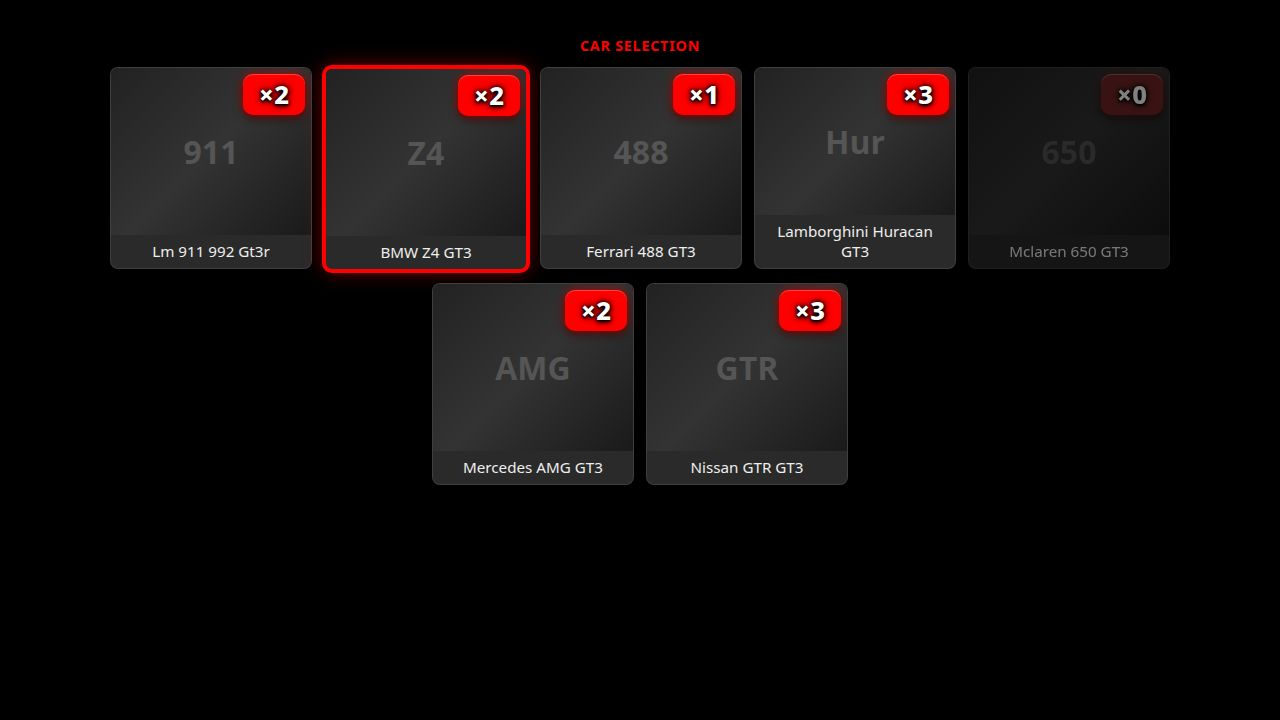
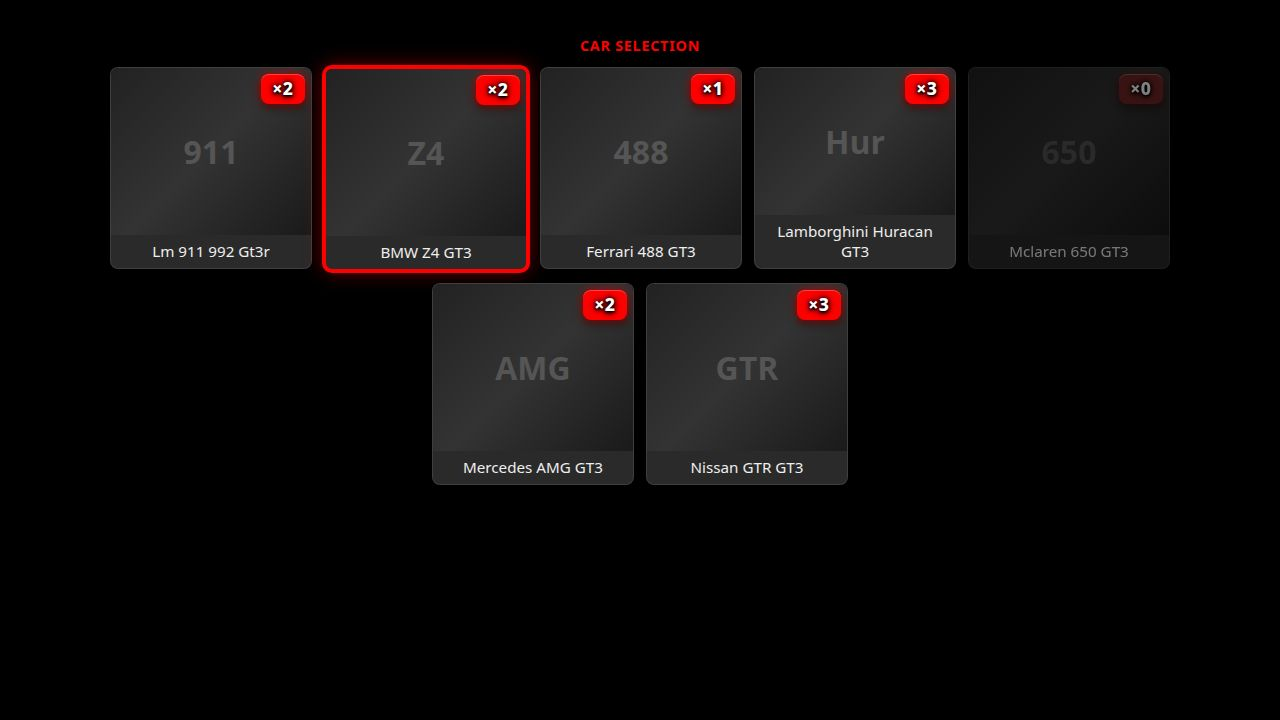
Adjust badge size for better visual balance and update preview
Update CSS in sim.html to reduce badge font size and dimensions, and rename the associated preview image metadata.

Replit-Commit-Author: Agent
Replit-Commit-Session-Id: 5224433c-1af1-494f-ba8a-896445ec7928
Replit-Commit-Checkpoint-Type: full_checkpoint
Replit-Commit-Event-Id: b9196039-0ea8-4286-82f8-51f88413928a
Replit-Commit-Screenshot-Url: https://storage.googleapis.com/screenshot-production-us-central1/361f08f0-77af-4c86-bf00-a97db21ca46f/5224433c-1af1-494f-ba8a-896445ec7928/xByBuuC
Replit-Helium-Checkpoint-Created: true

diff --git a/controller/static/sim.html b/controller/static/sim.html
@@ -260,16 +260,16 @@
             right: 6px;
             background: #FF0000;
             color: white;
-            font-size: 1.6rem;
+            font-size: 1.1rem;
             font-weight: 800;
             line-height: 1;
-            min-width: 2.6rem;
-            height: 2.6rem;
-            border-radius: 10px;
+            min-width: 1.9rem;
+            height: 1.9rem;
+            border-radius: 8px;
             display: flex;
             align-items: center;
             justify-content: center;
-            padding: 0 10px;
+            padding: 0 7px;
             letter-spacing: 0.02em;
             text-shadow: 0 0 4px #000, 0 0 8px #000, 0 1px 2px #000, 0 2px 4px rgba(0,0,0,0.8);
             box-shadow: 0 0 10px rgba(255,0,0,0.7), 0 3px 8px rgba(0,0,0,0.75), inset 0 1px 0 rgba(255,255,255,0.25);
